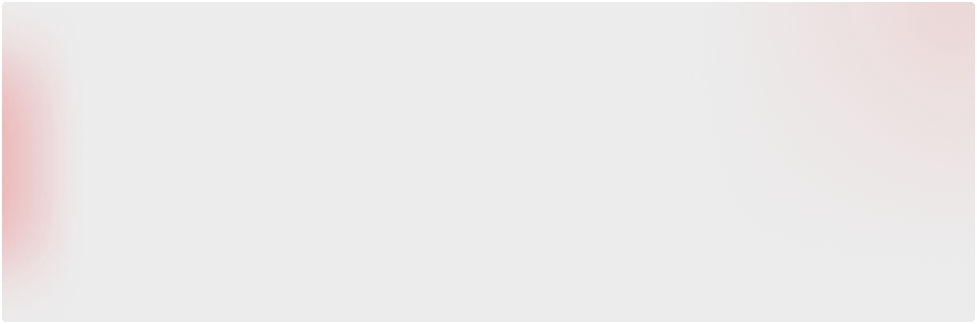
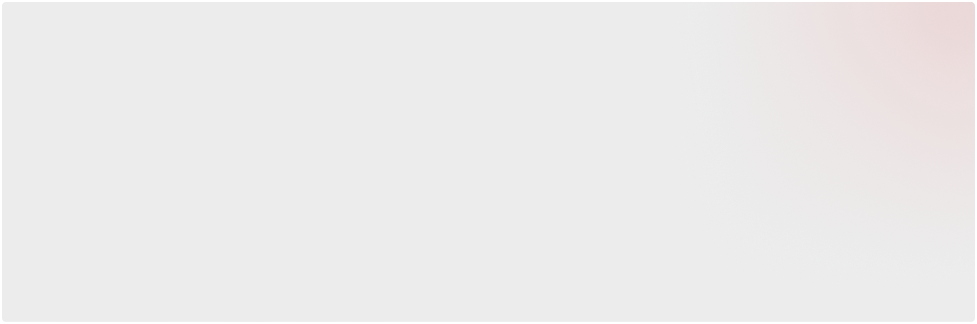
Fxiign so many shits

Changed region(s): [[0.0, 0.1852, 0.0614, 0.8025]]

diff --git a/styles/RoomLobby.css b/styles/RoomLobby.css
@@ -420,11 +420,42 @@
     gap: 7px;
   }
 
+  .RedSvgBehindImg {
+    position: absolute;
+    z-index: 1;
+    width: 74rem;
+  }
+
   .TeamDiv {
-    background: url(../imgs/RedPlayerBgRoom.png) #3030300e;
+    background: url(../imgs/RedPlayerBgRoom.png) #17171726;
     background-repeat: no-repeat;
     background-size: contain;
-    width: 60rem;
-    height:20rem;
+    width: 54rem;
+    height:17.7rem;
+    z-index: 2;
+    overflow: hidden;
+    position: relative;
     backdrop-filter: blur(10px);
+    display: flex;
+    align-items: center;
+  }
+
+.BlueShadowForTeam {
+    width: 2px;
+    height: 60%;
+    -webkit-box-shadow: 12px 0px 68px 13px rgba(236,45,48,0.49); 
+    box-shadow: 12px 0px 78px 13px rgba(45, 70, 236, 0.49);
+    position: absolute;
+    left: 0rem;
+    z-index: 99;
+}
+
+  .RedShadowForTeam {
+    width: 2px;
+    height: 60%;
+    -webkit-box-shadow: 12px 0px 68px 13px rgba(236,45,48,0.49); 
+    box-shadow: 12px 0px 78px 13px rgba(236,45,48,0.49);
+    position: absolute;
+    left: 0rem;
+    z-index: 99;
   }

diff --git a/index.html b/index.html
@@ -1169,8 +1169,13 @@
                     <p class="BetMoneyLobbyText">Bet money for winners <span>222000</span> $</p>
                 </div>
                 <div class="BlueAndRedDivTeam">
-                    <div class="TeamDiv"></div>
-                    <div class="TeamDiv"></div>
+                    <div class="TeamDiv">
+                        <div class="BlueShadowForTeam"></div>
+                    </div>
+                    <div class="TeamDiv">
+                        <div class="RedShadowForTeam"></div>
+                    </div>
+                    <!-- <img class="RedSvgBehindImg" src="./imgs/Group.png" alt=""> -->
                 </div>
             </div>
 
